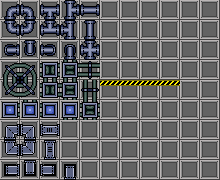
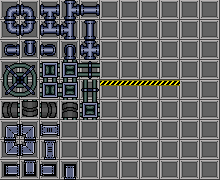
Impement wires on the floor

Changed region(s): [[0.0, 0.5556, 0.3545, 0.6667]]

diff --git a/TriangulatedTopology/Props/Algorithms/WiresGeneratorAlgorithm.cs b/TriangulatedTopology/Props/Algorithms/WiresGeneratorAlgorithm.cs
@@ -13,9 +13,12 @@ namespace TriangulatedTopology.Props.Algorithms
 {
     public class WiresGeneratorAlgorithm : INetAlgorithm
     {
+        private const float Trashold = 45.0f;
+
         public static readonly Color WireColor = Color.FromArgb(255, 0, 24);
 
         public static Model WireSupportModel = Model.Load("Content/Models/WireSupport.fbx");
+        public static Model SourceModel = Model.Load("Content/Models/Source.fbx");
         public static Model MonitorModel = Model.Load("Content/Models/Monitor.fbx");
 
         public static Texture MonitorTexture = Texture.LoadFromFile("Content/Textures/Monitor.png");
@@ -84,10 +87,18 @@ namespace TriangulatedTopology.Props.Algorithms
             {
                 InstantiateMonitor(engine, first.Position + first.Up * 0.2f, Mathematics.FromToRotation(Vector3.UnitZ, first.Up));
             }
+            else
+            {
+                InstantiateSource(engine, first.Position, Mathematics.FromToRotation(Vector3.UnitZ, first.Forward));
+            }
 
             if (MathHelper.ApproximatelyEqualEpsilon(Vector3.Dot(last.Up, Vector3.UnitY), 0.0f, 0.01f))
             {
                 InstantiateMonitor(engine, last.Position + last.Up * 0.2f, Mathematics.FromToRotation(Vector3.UnitZ, last.Up));
+            }
+            else
+            {
+                InstantiateSource(engine, last.Position, Mathematics.FromToRotation(Vector3.UnitZ, -last.Forward));
             }
 
             return models;
@@ -95,7 +106,7 @@ namespace TriangulatedTopology.Props.Algorithms
 
         private static List<List<SplineVertex>> GetWiresPointsLines(List<LogicalNode> nodes, int count)
         {
-            float extrusionFactor = 0.2f;
+            float extrusionFactor = 0.1f;
             float offset = 0.2f;
             var pointsLines = new List<List<SplineVertex>>();
 
@@ -113,7 +124,16 @@ namespace TriangulatedTopology.Props.Algorithms
                 var temp = nodes[i];
                 var next = nodes[i + 1];
 
-                AddSplineVertexInsideNode(pointsLines, prev, temp, next, extrusionFactor, offset, count);
+                var normal = Mathematics.GetNormal(temp.Corners);
+                var cosa = Vector3.Dot(Vector3.UnitY, normal);
+                var acos = MathF.Acos(cosa);
+                var angle = MathHelper.RadiansToDegrees(acos);
+
+                if (angle > Trashold)
+                {
+                    AddSplineVertexInsideNode(pointsLines, prev, temp, next, extrusionFactor, offset, count);
+                }                
+               
                 AddSharedSplineVertex(pointsLines, temp, next, extrusionFactor, offset, count);
             }
 
@@ -218,7 +238,7 @@ namespace TriangulatedTopology.Props.Algorithms
             int half = count / 2;
             var prevNormal = Mathematics.GetNormal(prev.Corners);
             var nextNormal = Mathematics.GetNormal(next.Corners);
-            var normal = Vector3.Normalize(Vector3.Lerp(prevNormal, nextNormal, 0.5f));
+            var blendedNormal = Vector3.Normalize(Vector3.Lerp(prevNormal, nextNormal, 0.5f));
 
             var prevPivot = Mathematics.GetCentroid(prev.Corners);
             var nextPivot = Mathematics.GetCentroid(next.Corners);
@@ -230,13 +250,13 @@ namespace TriangulatedTopology.Props.Algorithms
             var fromJointDirection = Vector3.Normalize(nextPivot - joint);
             var blendedDirection = Vector3.Normalize(Vector3.Lerp(toJointDirection, fromJointDirection, 0.5f));
 
-            var right = Vector3.Cross(blendedDirection, normal);
-            var position = joint + extrusionFactor * normal;
+            var right = Vector3.Cross(blendedDirection, blendedNormal);
+            var position = joint + extrusionFactor * blendedNormal;
 
             for (int i = 0; i < count; i++)
             {
                 int factor = i - half;
-                pointsLines[i].Add(new SplineVertex(position + offset * factor * right, normal, blendedDirection));
+                pointsLines[i].Add(new SplineVertex(position + offset * factor * right, blendedNormal, blendedDirection));
             }
         }
 
@@ -247,7 +267,18 @@ namespace TriangulatedTopology.Props.Algorithms
 
             for (int i = 0; i < points.Count - 3; i++)
             {
-                spline.AddRange(GenerateInnerVertices(points[i], points[i + 1], points[i + 2], points[i + 3]));
+                var prev = points[i + 1];
+                var next = points[i + 2];
+
+                if (IsSplineVertexLieOnFloor(prev) &&
+                    IsSplineVertexLieOnFloor(next))
+                {
+                    spline.AddRange(GenerateInnerVertices(prev, next));
+                }
+                else
+                {
+                    spline.AddRange(GenerateInnerVertices(points[i], points[i + 1], points[i + 2], points[i + 3]));
+                }               
             }
 
             spline.AddRange(GenerateInnerVertices(points[points.Count - 2], points[points.Count - 1]));
@@ -263,7 +294,7 @@ namespace TriangulatedTopology.Props.Algorithms
             {
                 float tempPercent = (float)j / resolution;
                 float nextPercent = (float)(j + 1) / resolution;
-                float coerce = 0.5f;
+                float coerce = 1.0f;
 
                 var position = Curves.Hermite(
                     a.Position,
@@ -294,13 +325,13 @@ namespace TriangulatedTopology.Props.Algorithms
             SplineVertex p3)
         {
             int resolution = 20;
+            float alpha = 0.5f;
             var inner = new List<SplineVertex>();
 
             for (int j = 0; j < resolution; j++)
             {
                 float tempPercent = (float)j / resolution;
-                float nextPercent = (float)(j + 1) / resolution;
-                float alpha = 0.5f;
+                float nextPercent = (float)(j + 1) / resolution;                
 
                 var position = Curves.CatmullRom(
                     p0.Position,
@@ -328,13 +359,26 @@ namespace TriangulatedTopology.Props.Algorithms
 
         private static void PlaceSupports(Engine engine, List<SplineVertex> points)
         {
-            for (int i = 2; i < points.Count - 1; i += 2)
+            for (int i = 1; i < points.Count - 1; i += 1)
             {
+                if (IsSplineVertexLieOnFloor(points[i]))
+                {
+                    continue;
+                }
+
                 var rotation = Mathematics.FromToRotation(Vector3.UnitY, points[i].Up);
-                var forward = Vector3.Transform(Vector3.UnitX, rotation);
+                var forward = Vector3.Transform(Vector3.UnitZ, rotation);
                 rotation = Mathematics.FromToRotation(forward, points[i].Forward) * rotation;
                 InstantiateWireSupport(engine, points[i].Position, rotation);
             }
+        }
+
+        private static bool IsSplineVertexLieOnFloor(SplineVertex vertex)
+        {
+            var cosa = Vector3.Dot(Vector3.UnitY, vertex.Up);
+            var acos = MathF.Acos(cosa);
+            var angle = MathHelper.RadiansToDegrees(acos);
+            return angle < Trashold;
         }
 
         private static GameObject InstantiateWireSupport(Engine engine, Vector3 position, Quaternion rotation)
@@ -342,6 +386,18 @@ namespace TriangulatedTopology.Props.Algorithms
             var go = engine.CreateGameObject();
             var renderer = go.Add<MaterialRenderComponent>();
             renderer.Model = WireSupportModel;
+            renderer.Material.Color = Colors.Gray;
+            go.Position = position;
+            go.Rotation = rotation;
+            return go;
+        }
+
+        private static GameObject InstantiateSource(Engine engine, Vector3 position, Quaternion rotation)
+        {
+            var go = engine.CreateGameObject();
+            var renderer = go.Add<MaterialRenderComponent>();
+            renderer.Model = SourceModel;
+            renderer.Material.Color = Colors.Gray;
             go.Position = position;
             go.Rotation = rotation;
             return go;
